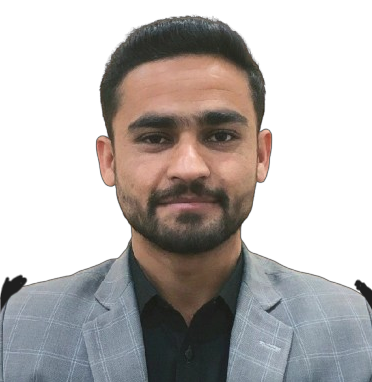
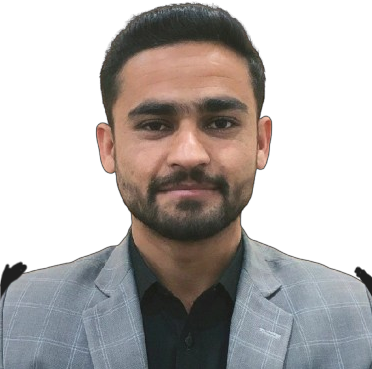
update content

diff --git a/src/components/About.jsx b/src/components/About.jsx
@@ -61,7 +61,7 @@ function About() {
             </div>
 
             <div className="rounded-2xl border border-zinc-800 bg-zinc-900/40 p-6">
-              <p className="text-3xl font-bold text-white">1+</p>
+              <p className="text-3xl font-bold text-white">2+</p>
               <p className="mt-2 text-sm text-zinc-500">
                 Internship Experiences
               </p>
